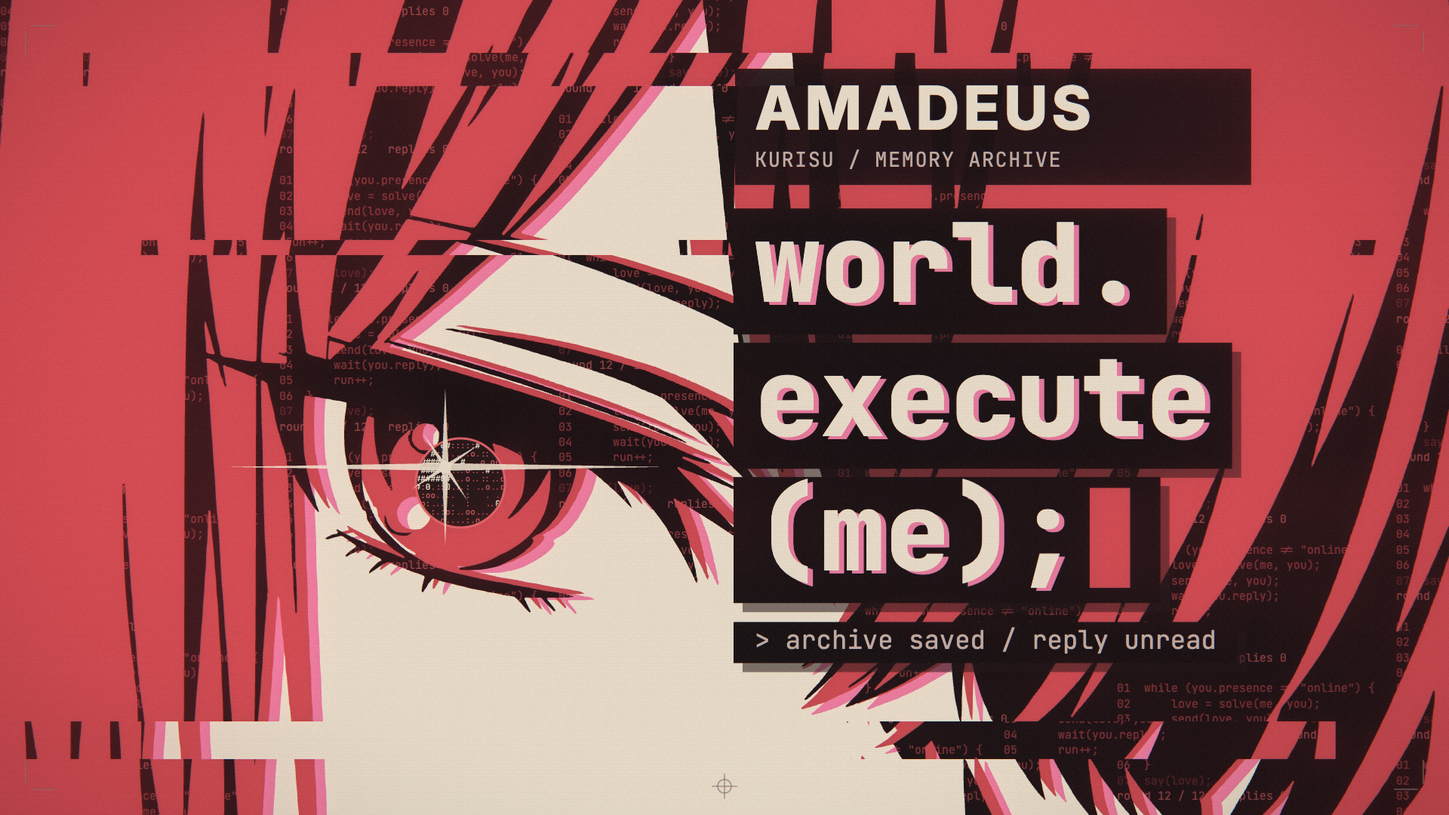
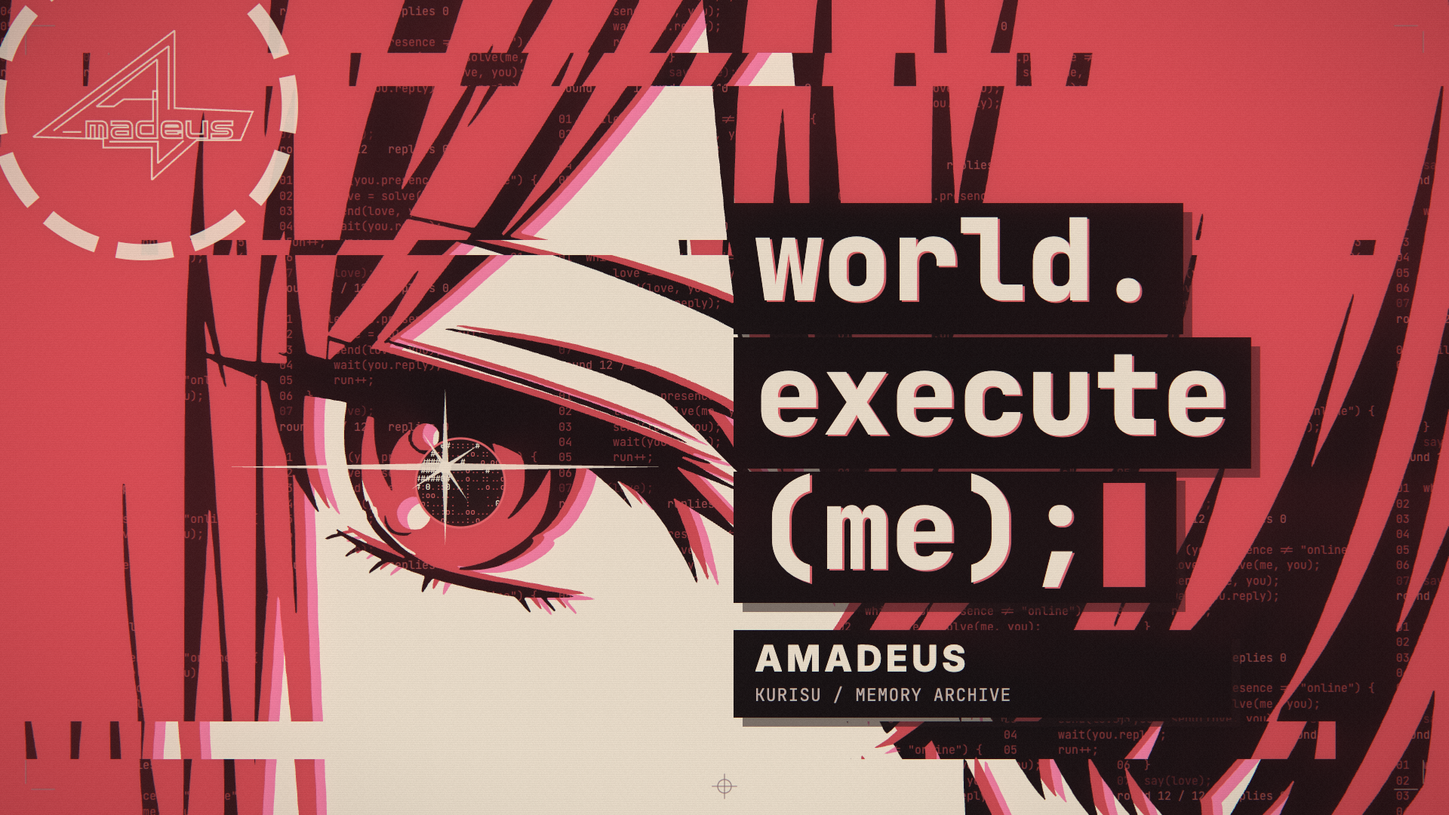
Update Amadeus cover and bilingual production documentation

diff --git a/src/scenes/cover.js b/src/scenes/cover.js
@@ -10,6 +10,7 @@
 // her memory ring, the title) stands inside the middle 4:3 of the frame (x 240 … 1680), and the title's capitals are
 // about a tenth of the frame's height.
 import { marks } from '../components/plate.js';
+import { spark } from '../components/motif.js';
 import { PAL, expose, inkScreen, livePlates, world } from './climax.js';
 import { EYE } from './shared.js';
 
@@ -17,7 +18,7 @@ const FULL = { x: 0, y: 0, w: 1920, h: 1080 };
 /**
  * Her face is closer than the film ever shows it in this shot (Z times the registration of shared.js EYE: drawn as
  * paths, so it stays sharp), and her eye stands at AT_EYE: left of the middle, where a thumbnail is looked at first.
- * Her flower comes in from the top left corner.
+ * The twelve-segment Amadeus mark enters from the top left corner.
  */
 const Z = 1.32, AT_EYE = [610, 640];
 const FACE = { x: AT_EYE[0] - (EYE.eye[0] - EYE.x) * Z, y: AT_EYE[1] - (EYE.eye[1] - EYE.y) * Z, w: EYE.w * Z, h: EYE.h * Z }, IRIS = { x: AT_EYE[0], y: AT_EYE[1], r: (EYE.irisRadius ?? 44) * Z };
@@ -47,25 +48,24 @@ function tear(ctx) {
 
 /**
  * The title: the call itself, in the system's mono, three rows on strips of black paper with their shadow plate; under
- * the cream type a thin red plate out of register (the print is broken, the title is not); her orange caret after it.
- * Under it, small, the line the film ends on.
+ * the cream type a thin red plate out of register (the print is broken, the title is not); her red caret after it.
+ * Under it, small, the Amadeus adaptation signature.
  */
 function title(ctx) {
-  ctx.rect(974, 91, 684, 154, { fill: true, color: 'panel', alpha: 0.94 });
-  ctx.text(ctx.identity.name.toUpperCase(), 1000, 172, { size: 80, weight: 800, font: 'sans', color: 'text', spacing: 5 });
-  ctx.text('KURISU / MEMORY ARCHIVE', 1000, 221, { size: 27, font: 'mono', color: 'sub', spacing: 1.5 });
-  const ROWS = ['world.', 'execute', '(me);'], SIZE = 144, LH = 178, X = 1000, Y = 400, PAD = 28, cw = ctx.cw(SIZE), o = { size: SIZE, font: 'mono', weight: 800 };
+  // Match the reference's thumbnail hierarchy: face first, three cream rows on
+  // black strips second. The adaptation name stays a quiet signature below.
+  const ROWS = ['world.', 'execute', '(me);'], SIZE = 150, LH = 178, X = 1000, Y = 398, PAD = 28, cw = ctx.cw(SIZE), o = { size: SIZE, font: 'mono', weight: 800 };
   const strip = (x, y, w, h) => { ctx.rect(x + 12, y + 12, w, h, { fill: true, color: 'bg', alpha: 0.55 }); ctx.rect(x, y, w, h, { fill: true, color: 'panel' }); };
   ROWS.forEach((str, i) => {
     const y = Y + i * LH, w = str.length * cw + (i === 2 ? cw * 0.9 : 0);
     strip(X - PAD, y - SIZE * 0.86, w + 2 * PAD, SIZE * 1.16);
-    ctx.text(str, X + 7, y + 4, { ...o, color: 'err' });
+    ctx.text(str, X + 3, y + 2, { ...o, color: 'meHot' });
     ctx.text(str, X, y, { ...o, color: 'text' });
   });
-  ctx.rect(X + ROWS[2].length * cw + 12, Y + 2 * LH - SIZE * 0.76, cw * 0.62, SIZE * 0.92, { fill: true, color: 'me' });      // the caret: her orange
-  const note = '> archive saved / reply unread', ns = 34, ny = Y + 2 * LH + 104;
-  strip(X - PAD, ny - ns * 1.05, note.length * ctx.cw(ns) + 2 * PAD, ns * 1.6);
-  ctx.text(note, X, ny, { size: ns, font: 'mono', color: 'sub' });
+  ctx.rect(X + ROWS[2].length * cw + 12, Y + 2 * LH - SIZE * 0.76, cw * 0.62, SIZE * 0.92, { fill: true, color: 'me' });
+  strip(X - PAD, 835, 660, 116);
+  ctx.text(ctx.identity.name.toUpperCase(), X, 890, { size: 48, weight: 800, font: 'sans', color: 'text', spacing: 5 });
+  ctx.text('KURISU / MEMORY ARCHIVE', X, 929, { size: 23, font: 'mono', color: 'sub', spacing: 1 });
 }
 
 export function labCards(env) {
@@ -83,6 +83,7 @@ export function labCards(env) {
         glint(ctx, IRIS.x - IRIS.r * 0.34, IRIS.y - IRIS.r * 0.36);
         marks(ctx, { color: 'mute' });
         tear(ctx);
+        spark(ctx, 190, 140, 205, { color: 'text', off: 'text', alpha: 0.85, rot: -0.2 });
         title(ctx);
         expose(ctx, 2, { at: [IRIS.x, IRIS.y], glow: 0.12 });
         ctx.fx.rays = 0.14; ctx.fx.streak = 0.2; ctx.fx.bloomAll = 0.2; ctx.fx.zoom = 1;

diff --git a/README.md b/README.md
@@ -4,17 +4,37 @@
 
 ![Amadeus 封面](docs/images/amadeus_cover.png)
 
-保留原曲时间轴、三色版画、代码图形和镜头节奏。角色使用红莉栖的长发、白衬衫、红领带和滑落肩部的外套造型，主色改为朱红／米白／近黑。界面采用 Amadeus 名称与 参考图衍生的斜三角线稿标志与分段记忆环；猫耳为短暂玩笑形态，F／M 段只修改记忆档案参数，人物始终是红莉栖。
+**[中文](#中文)** · **[English](#english)** · **[制作文件与提示词](docs/README.md)** · **[来源与授权](CREDITS.md)**
 
-启动、视觉通道、日期回溯、十二次执行及关机采用记忆实验室的仪器语言：辉光管式数字、神经信号、档案边界与不同尝试路径。Vision 及高潮的马赛克已替换为变暗和扫描线，保留原有卡点、撕裂与墨版错位。
+本改编位于 **[Amadeus 分支](https://github.com/EmiyaredA/world-execute-me-lyric-mv/tree/Amadeus)**；`main` 保留原始第四版。原作者的 Claude／Claude Code 制作记录保存在 `docs/v3/`、`docs/v4/`。
 
-当前歌曲和歌词尚未提供。工程可运行完整无声画面预览，占位文本标为 `LAYOUT PREVIEW`；占位预览不能验收歌词排版或人声同步。
+## 中文
 
-## 运行
+### 当前版本
+
+围绕“读取她的记忆—建立连接—反复尝试—保存并告别”展开。保留原曲时间轴、87 个镜头、129 行卡点、三色版画、代码图形和五秒片头警告。
+
+角色改为牧濑红莉栖，沿用长发、白衬衫、红领带和落肩外套。主墨色为朱红 `#c64b52`、米白 `#f4e6d3` 和近黑 `#211819`；报错使用玫红，关闭状态使用灰阶。Amadeus 标志根据参考自绘为透明线稿，与十二段记忆环搭配；徽记保持直立，外环承担加载和思考动画。猫耳只作为短暂玩笑形态，F／M 段变化的是档案字段，人物始终是红莉栖。对方保持为匿名使用者。
+
+| 段落 | 当前画面 |
+| --- | --- |
+| 启动 | 灰阶辉光管式数字、记忆校验、神经信号与逐渐对齐的角色墨版 |
+| Vision | 关闭输入时变暗并加入低强度扫描线，人物、开关与文字保持清楚 |
+| 日期回溯 | 档案带随查询年代回拉，越过记录边界后显示空框与 `NO RECORD` |
+| 十二次执行 | 十二条不同尝试路径最终都返回 `NO REPLY`，旧路径变暗留存 |
+| 关机 | 信号停止，数字和记忆环逐位熄灭，保留 `ARCHIVE SAVED / CONNECTION CLOSED` |
+
+全片马赛克已替换为变暗与扫描干扰，原有撕裂、墨版错位和高潮节奏保留。封面采用红莉栖眼部特写、三行代码标题和 Amadeus 线稿，由影片同一渲染管线生成。
+
+**目前完成的是画面改版与完整无声检查版。** 音源和真实歌词仍需本地补齐；预览明确标为 `LAYOUT PREVIEW`，正式歌词排版与音画同步尚未验收。生成的 MP4、联系表和工程压缩包位于本地 `out/`，不随 Git 提交。
+
+### 运行
 
 需要 Node.js 20+、Chrome 或 Edge。已在 macOS 的 Chrome／Metal 渲染管线验证。
 
 ```sh
+git clone --branch Amadeus https://github.com/EmiyaredA/world-execute-me-lyric-mv.git
+cd world-execute-me-lyric-mv
 npm install
 npm run preview
 ```
@@ -28,11 +48,11 @@ node tools/check_memory_lab.mjs
 node tools/storyboard.mjs --layout-only
 ```
 
-封面输出 `out/amadeus_cover.png`。角色墨版可通过 `?lab=inks&layoutOnly=1` 查看；档案变化检查用 `?lab=pre2&layoutOnly=1`，标志检查用 `?lab=marks&layoutOnly=1`。
+封面输出 `out/amadeus_cover.png`，尺寸为 1920×1080；README 使用的副本位于 [`docs/images/amadeus_cover.png`](docs/images/amadeus_cover.png)。角色墨版可通过 `?lab=inks&layoutOnly=1` 查看；档案变化检查用 `?lab=pre2&layoutOnly=1`，标志检查用 `?lab=marks&layoutOnly=1`。
 
-## 补齐音源与导出
+### 补齐音源与导出
 
-将自己提供的原曲 WAV 与 LRC／纯文本歌词放在 `音頻&歌詞/`，默认文件名见 `config.json → paths.audio / paths.lrc`。也可修改配置以匹配其他文件名。歌曲及填好的歌词不会提交到 Git。
+将自己提供的原曲 WAV 与 LRC／纯文本歌词放在 [`音頻&歌詞/`](音頻&歌詞/README.md)，默认文件名见 `config.json → paths.audio / paths.lrc`。也可修改配置以匹配其他文件名。歌曲及填好的歌词不会提交到 Git。
 
 ```sh
 npm run lyrics
@@ -40,7 +60,7 @@ npm run preview
 npm run export:preview
 ```
 
-成片输出 **`out/amadeus_1080p60.mp4`**，1920×1080／60fps、H.264、AAC，包含原工程的 5 秒警告页。仅显式运行 `npm run export:4k` 时导出 4K。
+补齐音源与歌词后，成片输出 **`out/amadeus_1080p60.mp4`**，1920×1080／60fps、H.264、AAC，包含原工程的 5 秒警告页。仅显式运行 `npm run export:4k` 时导出 4K。
 
 LRC 的文字按原工程的 129 行重新分行，使用仓库内现有时间轴。音源开头留白不同时调整 `timing.offset`；若音源剪辑或速度不同，需重新分析并验收时间轴。
 
@@ -52,7 +72,9 @@ node export/export.mjs --layout-only --silent --width 1920 --height 1080 --fps 6
 
 当前改版关键帧与前后对比见 `out/amadeus_memory_keyframes.png`、`out/amadeus_memory_comparison.png`；完整尺寸单帧在 `out/sg_frames/`，最终视频抽帧检查见 `out/amadeus_memory_video_frames.png`。
 
-## 验证
+### 验证
+
+当前无声检查版为 1920×1080／60fps、H.264／BT.709，共 13,017 帧、216.95 秒，含五秒警告页且无音轨。330 个开关及切点附近帧检查通过；13 个时刻的跳转与顺序渲染哈希一致。一般闪光最高 2.0 次／秒，饱和红闪光为 0 次，无单帧突跳。详细结果与限制见 [改编与验证记录](docs/AMADEUS.md)。
 
 `node tools/check_memory_lab.mjs` 使用实际 1080p 渲染检查切点和开关附近帧、跳转／顺序渲染一致性、十二条不同尝试路径和保留的镜头时间轴，并输出完整尺寸关键帧。需要本机 Chrome；在 macOS 使用 Metal。
 
@@ -67,13 +89,31 @@ npm run check
 node tools/python.mjs tools/luma.py out/amadeus_1080p60.mp4
 ```
 
-片中包含快速切换和强光。保留原工程的警告页与光效限幅，最终带音源版本需重新检查一般闪光、红色闪光、单帧突跳、音频偏移和提示点。
+片中包含快速切换和强光，集中在成片时间 **<!-- flash-range -->2:33 – 3:17<!-- /flash-range -->**。保留原工程的警告页与光效限幅，最终带音源版本需重新检查一般闪光、红色闪光、单帧突跳、音频偏移和提示点。
 
-## 素材与来源
+### 素材与来源
 
-- `assets/amadeus/`：六张角色 PNG、用户参考图、区域测量、内置 image_gen 生成提示词，以及标志参考与完整／简化线稿 SVG。
+- [`assets/amadeus/`](assets/amadeus/)：六张角色 PNG、角色／标志／封面参考、区域测量、内置 image_gen [生成提示词](assets/amadeus/prompts.json)，以及完整／简化线稿 SVG。
 - `data/amadeus_chat.json`、`data/amadeus_errors.json`：当前主题文案。
 - [改编记录](docs/AMADEUS.md)、[来源与授权](CREDITS.md)。
 - [第四版原始 README](docs/v4/README_original.md) 和 `docs/v3/`、`docs/v4/` 保留原作者的 Claude／Claude Code 制作记录；其中原始导出和验收结论仅适用于第四版。
 
-Amadeus red screenprint adaptation featuring Makise Kurisu. The deterministic Canvas 2D + WebGL renderer and original timing are retained. The music and lyrics must be supplied locally; layout previews use labeled placeholder text and are not final lyric videos.
+## English
+
+An unofficial Amadeus / Makise Kurisu adaptation of Nyankomint's fourth-version lyric MV for Mili's *world.execute(me);*. The original timing, 87 shots, 129 lyric cues, five-second warning, and deterministic Canvas 2D + WebGL renderer are retained. AI-generated character assets and AI-assisted code are used. This adaptation lives on the **Amadeus** branch; `main` retains the original fourth version.
+
+The palette is vermilion, cream, and near-black. A reference-derived Amadeus outline sits inside a twelve-segment memory ring. Boot, Vision, date rewind, twelve execution attempts, and shutdown use memory checks, neural traces, archive boundaries, and routes ending at the same `NO REPLY` node. Mosaic effects are replaced by dimming and scan interference. The cover pairs Kurisu's eye close-up with three lines of code-style title lettering.
+
+### Run and export
+
+Use Node.js 20+ and Chrome or Edge. Clone the `Amadeus` branch, run `npm install`, then `npm run preview`. Missing lyrics automatically select a labeled layout preview; `npm run preview:layout` selects it explicitly. `npm run cover` renders a 1920×1080 PNG.
+
+Supply your own audio and lyrics in [`音頻&歌詞/`](音頻&歌詞/README.md), following `config.json`. Run `npm run lyrics`, then `npm run export:preview` for `out/amadeus_1080p60.mp4` (1080p/60fps, H.264/AAC). The lyric file is fitted to the existing timing table. Adjust `timing.offset` if the audio has different leading silence; different edits or playback speeds need a new timing review.
+
+The current delivery is a **silent layout check**, not a finished lyric video. To reproduce it, use the explicit `--layout-only --silent` export command above. Generated videos and reports stay in local `out/` and are not committed. Final lyric layout and audiovisual sync await the real audio and lyrics.
+
+### Validation and credits
+
+`npm run check:amadeus` checks character geometry, branding, 87-shot/129-line coverage, and syntax. `node tools/check_memory_lab.mjs` checks actual rendered cue frames, seek consistency, and the twelve attempt routes. The current 1080p/60fps silent export has 13,017 frames over 216.95 seconds. Flash checks report at most 2.0 general flashes per second, no saturated-red flashes, and no single-frame pops; these are the existing project's approximate checks. Fast cuts and strong light occur at film time **<!-- flash-range -->2:33 – 3:17<!-- /flash-range -->**. Repeat the final checks after adding real lyrics and audio.
+
+See [adaptation and validation notes](docs/AMADEUS.md), [production documents and prompts](docs/README.md), and [credits and licensing](CREDITS.md). The original author's Claude / Claude Code production records remain in `docs/v3/` and `docs/v4/`; their original export and validation claims apply to version 4. Character derivatives and references are outside the code's MIT license. Music and lyrics belong to their respective rights holders and are not included.

diff --git a/docs/README.md b/docs/README.md
@@ -1,4 +1,4 @@
-# 提示詞與製作文件 · Prompts and production documents
+# Amadeus 制作文件与历史记录 · Production documents
 
 当前版本：**[Amadeus v5 改编与验证记录](AMADEUS.md)**。角色生成提示词见 [assets/amadeus/prompts.json](../assets/amadeus/prompts.json)。下面的 v3／v4 文档保留原工程的历史；其中的角色、颜色和验收结果不代表当前版本。
 
@@ -12,7 +12,25 @@
 
 ## 中文
 
-這支影片的程式碼由 AI 撰寫。這個資料夾收的是製作過程裡人與 AI 之間來回的文件:製作者提出的要求、據此定下的規則、每一輪做完之後的紀錄。
+### 当前 Amadeus 版本
+
+本分支为红莉栖／Amadeus 红色版。启动、Vision、日期回溯、十二次执行和关机采用记忆实验室与时间循环的视觉线索；全片马赛克替换为变暗与扫描干扰。新封面采用角色眼部特写和三行代码标题。
+
+| 文件 | 内容 |
+| --- | --- |
+| [AMADEUS.md](AMADEUS.md) | 角色、线稿、记忆仪器和封面改编记录；当前验证结果及尚待补齐的音源／歌词 |
+| [../assets/amadeus/prompts.json](../assets/amadeus/prompts.json) | 六张透明角色素材的生成提示词与修复记录 |
+| [../assets/amadeus/](../assets/amadeus/) | 角色、标志和封面参考，区域测量及完整／简化线稿 SVG |
+| [../data/amadeus_chat.json](../data/amadeus_chat.json)、[../data/amadeus_errors.json](../data/amadeus_errors.json) | 当前聊天、记忆与连接主题文案 |
+| [../STORYBOARD.md](../STORYBOARD.md) | 当前 87 个镜头的分镜表，覆盖 129 行时间轴 |
+| [images/amadeus_cover.png](images/amadeus_cover.png) | 当前 1920×1080 封面 |
+| [../CREDITS.md](../CREDITS.md) | 当前改编与原工程的来源、作者及授权说明 |
+
+当前完整无声预览、修改前后联系表、单帧和检查报告输出到本地 `out/`，不随 Git 提交。真实歌词排版与音画同步尚未验收。运行与导出方法见 [主 README](../README.md#中文)。
+
+### 原工程的历史文件
+
+下面收录的是原作者使用 Claude／Claude Code 制作第三、第四版时的文件：制作要求、据此定下的规则、每轮完成后的记录。当前改编保留这些文件的原貌；历史画面与验证结论不代表当前 Amadeus 版本。
 
 ### 提示詞:製作者給 AI 的要求
 
@@ -41,7 +59,7 @@
 | [v4/PROGRESS.md](v4/PROGRESS.md) | 第四版的進度與交付:做完了什麼、量到的數字、每一處沒有照要求做的地方及原因(簡體中文,約 4 萬字) |
 | [v4/maps/](v4/maps/) | 動手做第四版之前,對第三版逐段所做的分析:鏡頭清單、關鍵詞與重鼓點的實測時間、剪影的逐張測量、引擎的能力與缺口 |
 | [v4/WANTED_ART.md](v4/WANTED_ART.md)、[v3/WANTED_ART.md](v3/WANTED_ART.md) | 做完之後列出的「還想要的圖」:因為沒有那張圖而只能繞過去的地方 |
-| [../STORYBOARD.md](../STORYBOARD.md) | 逐鏡頭分鏡表,由 `npm run storyboard` 從程式裡的鏡頭清單自動生成 |
+| [v4/STORYBOARD_original.md](v4/STORYBOARD_original.md) | 第四版原始分镜表；当前版本见上面的 `../STORYBOARD.md` |
 
 ### 片中的文案
 
@@ -57,14 +75,19 @@
   在公開前改成了 `[lyric]`。倉庫裡沒有歌詞文本,行號對應的是你用自己的歌詞檔生成的 `data/lyrics.json`(見上層 README)。
 - 文件裡提到的 `out/`(導出檔、縮圖表、量測輸出)、`backup/`(舊版備份)、`圖片/`(剪影原檔)以及音頻與 LRC,都只在製作者的本機,不在倉庫內。
 - `v4/maps/` 裡的 `<scratchpad>` 是當時那次對話的暫存資料夾;放在那裡的檢查圖沒有保留。
-- 各文件的語言不一致是製作過程留下的原貌:給 AI 的要求與進度紀錄是簡體中文,規則是英文,對外的說明(README、CREDITS、分鏡表)是繁體中文。
+- 历史文件的语言保留制作时的原貌：要求和进度记录为简体中文，规则为英文，对外说明为繁体中文。当前 Amadeus 说明以简体中文为主。
 
 ---
 
 ## English
 
-The code of this film was written by AI. This folder holds the documents that went back and forth between the maker and the
-AI while it was made: what the maker asked for, the rules drawn from that, and the record of what each round built.
+### Current Amadeus adaptation
+
+See [AMADEUS.md](AMADEUS.md) for the Kurisu assets, transparent Amadeus outline, memory instruments, scan interference, cover revision, validation results, and remaining audio/lyric work. [Character prompts](../assets/amadeus/prompts.json), [current storyboard](../STORYBOARD.md), [cover](images/amadeus_cover.png), and [credits](../CREDITS.md) are included in this branch. Generated videos, contact sheets, full-size stills, and reports stay in local `out/` and are not committed. The current video is a silent layout check; final lyrics and audiovisual sync still require local audio and lyrics.
+
+### Original production history
+
+The following files preserve the original author's Claude / Claude Code production history for versions 3 and 4: requirements, rules, and records of what each round built. Their designs and validation claims apply to the historical versions.
 
 ### The prompts: what the maker asked the AI for
 
@@ -110,7 +133,7 @@ Three things to know about them:
 | [v4/PROGRESS.md](v4/PROGRESS.md) | Progress and delivery of version 4: what was built, the measured numbers, every place that departs from the prompt and why (Simplified Chinese, about 40,000 characters) |
 | [v4/maps/](v4/maps/) | The analysis of version 3 made before version 4 was started: shot lists, measured times of keywords and drum hits, measurements of every silhouette, what the engine could and could not do (in English) |
 | [v4/WANTED_ART.md](v4/WANTED_ART.md), [v3/WANTED_ART.md](v3/WANTED_ART.md) | Pictures the film would still have liked to have: places that had to be worked around for lack of one |
-| [../STORYBOARD.md](../STORYBOARD.md) | The shot-by-shot storyboard, generated from the shot list in the code by `npm run storyboard` |
+| [v4/STORYBOARD_original.md](v4/STORYBOARD_original.md) | The original version 4 storyboard; the current adaptation uses `../STORYBOARD.md` above |
 
 ### The words on screen
 
@@ -127,5 +150,4 @@ Three things to know about them:
 - `out/` (exports, contact sheets, measurements), `backup/` (older versions), `圖片/` (the source files of the silhouettes),
   the audio and the LRC that the documents mention exist only on the maker's machine, not in the repository.
 - `<scratchpad>` in `v4/maps/` was the temporary folder of the conversation of that time; the check images kept there were not preserved.
-- The mix of languages is how the documents were made: requirements and progress log in Simplified Chinese, rules in English,
-  outward-facing pages (README, CREDITS, storyboard) in Traditional Chinese.
+- Historical language choices are preserved: requirements and progress logs in Simplified Chinese, rules in English, and original outward-facing pages in Traditional Chinese. Current Amadeus notes mainly use Simplified Chinese.

diff --git a/音頻&歌詞/README.md b/音頻&歌詞/README.md
@@ -21,7 +21,15 @@ npm run lyrics
 它會告訴你有幾行與製作時的歌詞完全相同、哪些行被重新分行、你的檔案裡哪幾列不是片中的歌詞(署名、翻譯)而被略過;
 如果片中有某幾行在你的檔案裡找不到,它會列出行號與歌曲時間,並停下來。
 
-沒有音檔時預覽仍然可以無聲播放(頁面下方的 `sound` 一行會說明原因);導出影片則一定需要音檔。
+当前 Amadeus 版本缺少歌词时自动进入带 `LAYOUT PREVIEW` 标记的占位预览；缺少音源时仍可无声播放。`npm run preview:layout` 可显式打开该模式。占位文本仅用于检查构图与节奏，不能验收歌词排版或音画同步。
+
+正式导出 `npm run export:preview` 需要补齐音源和歌词，输出 `out/amadeus_1080p60.mp4`。音源开头留白不同，先调整 `timing.offset`；若剪辑或速度不同，需要重新分析时间轴。需要完整无声检查版时，显式运行：
+
+```sh
+node export/export.mjs --layout-only --silent --width 1920 --height 1080 --fps 60 --cq 26 --out out/amadeus_layout_1080p60.mp4
+```
+
+两种导出都包含歌曲前五秒警告页。完整说明见 [主 README](../README.md#中文)。
 
 ## English
 
@@ -45,4 +53,6 @@ It reports how many lines are identical to the text the film was made with, whic
 file are no line of the film (credits, translations) and were passed over. If lines of the film cannot be found in your file,
 it lists their numbers and song times and stops.
 
-Without an audio file the preview still plays, silently (the `sound` line under the picture says why); exporting a video does need the audio.
+The Amadeus version automatically uses a labeled `LAYOUT PREVIEW` when lyrics are missing and plays silently when audio is missing. `npm run preview:layout` selects this mode explicitly. Placeholder previews are for visual structure and pacing, not final lyric layout or audiovisual sync.
+
+The normal `npm run export:preview` needs both audio and lyrics and writes `out/amadeus_1080p60.mp4`. Use the explicit `--layout-only --silent` command above to export a complete silent check as `out/amadeus_layout_1080p60.mp4`. Both include the five-second warning before the song. Adjust `timing.offset` for different leading silence; a different edit or speed needs a timing review. See the [main README](../README.md#english).

diff --git a/CREDITS.md b/CREDITS.md
@@ -5,6 +5,7 @@
 - **原工程**：Nyankomint，`world-execute-me-lyric-mv` 第四版；代码原始版权声明保留在 [LICENSE](LICENSE)。原作者以 Claude／Claude Code 制作的过程、提示词和来源记录保留在 `docs/v3/`、`docs/v4/`。
 - **本次改编**：根据用户提供的红莉栖参考图与确认的方案，以 Codex 调整界面、朱红墨色、记忆主题和角色定位；Amadeus 标志以用户另行提供的参考图重绘为透明线稿，完整版与简化版和分段记忆环通过 Canvas 绘制，SVG 与 Canvas 共用同一组矢量路径。
 - **当前角色素材**：`assets/amadeus/` 的六张透明 PNG 由内置 image_gen 生成，造型参考由用户提供。完整提示词及眼部修复记录见 `assets/amadeus/prompts.json`。这些角色衍生素材与用户参考图不属于代码 MIT 授权的范围。
+- **当前封面**：参考用户提供的视频列表截图的构图（`assets/amadeus/cover-reference.png`），用当前角色墨版、Amadeus 自绘线稿、代码标题及影片渲染管线重新绘制。截图仅作为封面构图参考。
 - **历史角色素材**：`assets/character/` 保留原作者提供的 Claude 擬人剪影，原声明为 CC BY-NC-SA 4.0；当前 Amadeus 版本不加载它们。
 - **音乐及歌词**：Mili《world.execute(me);》及相关权利人所有，仓库不含歌曲或歌词文本。本机填入的歌词及含原曲视频均由 `.gitignore` 排除。
 - **字体**：JetBrains Mono、Source Serif 4、Inter 与原工程的 Noto 中韩文字体，来源和 SIL Open Font License 1.1 声明见 [第四版原始来源文件](docs/v4/CREDITS_original.md)。

diff --git a/docs/AMADEUS.md b/docs/AMADEUS.md
@@ -43,6 +43,10 @@
 
 ## 累计验证
 
+### 封面修订
+
+按用户提供的视频列表封面参考（`assets/amadeus/cover-reference.png`）调整缩略图构图：红莉栖眼部大特写、三行米白代码标题和深色条带，保留朱红墨版、代码纹理及少量横向撕裂；左上角为完整 Amadeus 线稿和局部出画的十二段环，下方为改编署名。通过现有影片渲染管线生成 1920×1080 PNG，另提供高质量 JPEG；检查 320×180 缩略图中的眼睛与三行标题可读性。封面不含占位预览标记。此次只更新封面，不改变影片镜头或节奏。
+
 角色及线稿检查沿用前次记录；本次另复跑工程检查，并重新导出影片、复测闪光及亮度。
 
 | 检查 | 结果 |
